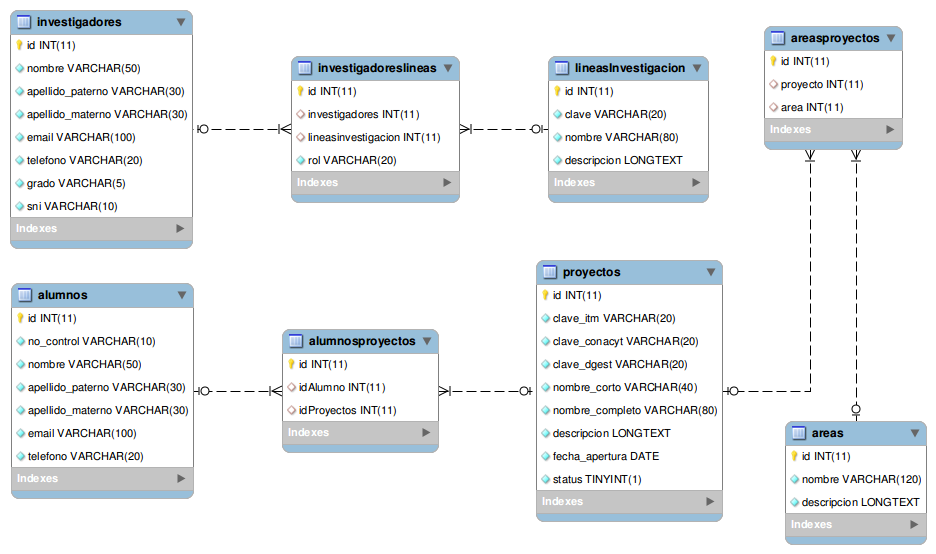
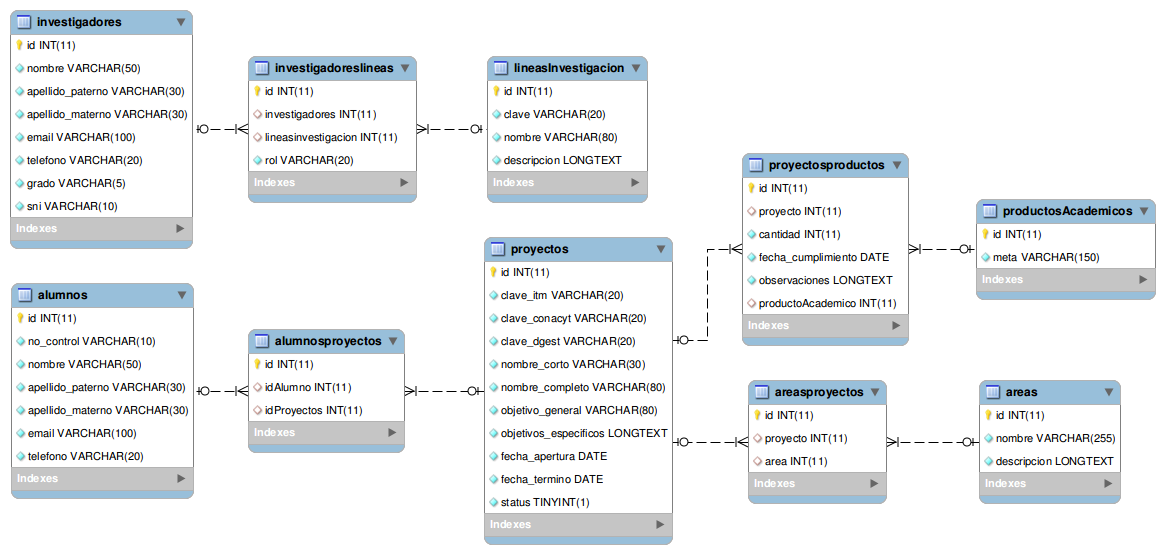
Se actualizo el Diagrama entidad-relacion, y se actualizo la relacion del detalle de proyectos-productos de uno a uno, se modifico por, muchos a uno

diff --git a/src/DEPI/ProyectosProductosBundle/Entity/ProyectosProductos.php b/src/DEPI/ProyectosProductosBundle/Entity/ProyectosProductos.php
@@ -21,7 +21,7 @@ class ProyectosProductos
      */
     private $id;
 
-    /** @ORM\OneToOne(targetEntity="DEPI\ProyectosBundle\Entity\Proyectos") 
+    /** @ORM\ManyToOne(targetEntity="DEPI\ProyectosBundle\Entity\Proyectos") 
      *  @ORM\JoinColumn(name="proyecto", referencedColumnName="id")
      */
     private $proyecto;
